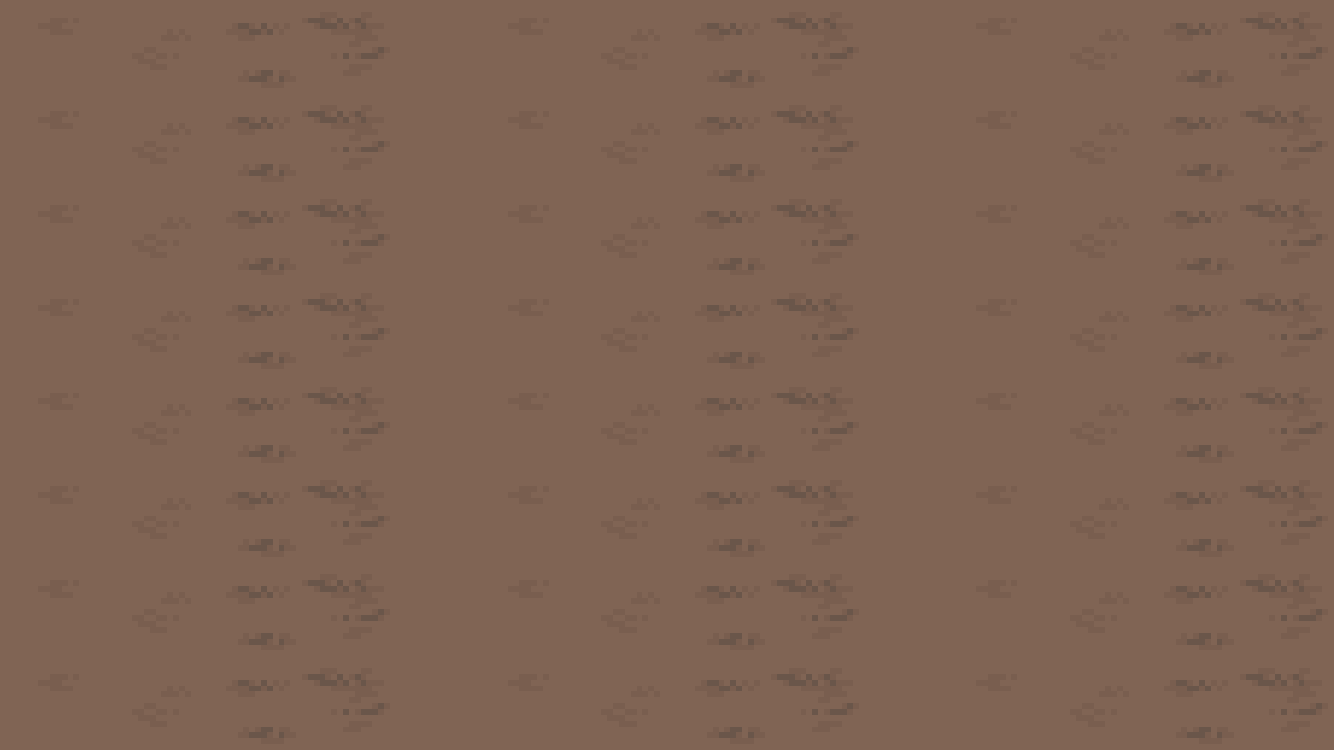
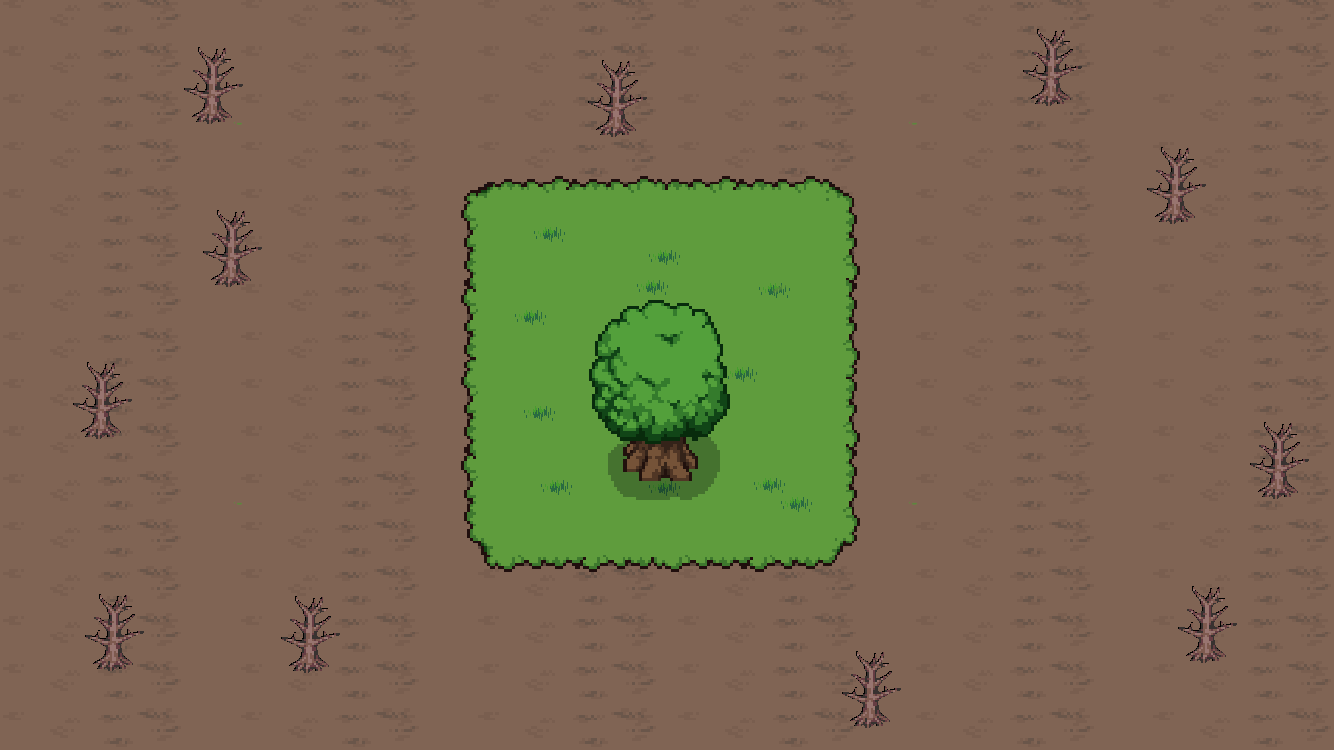
Mana drop done

diff --git a/Forrest Defender/forrest defender.py b/Forrest Defender/forrest defender.py
@@ -22,17 +22,19 @@ dt = clock.tick(60)/1000
 game_state = 1  # 0 = Main_Menu, 1 = Idle_Game, 2 = Shooter
 mana_int = 0
 mana_per_second = 1
-
+alpha = 0
 # Fonts
 
 font = pygame.font.SysFont('Futura', 55)
+font_small = pygame.font.SysFont('Futura', 35)
 
 # Initialise Sprites
 mana_bar = GameObject('Images/Mana.png', (0, 0), (500, 153))
-tree = GameObject('Images/tree.png', (cam_x - 75, cam_y - 100), (150, 200))
-grass = GameObject('Images/grass.png', (cam_x - 200, cam_y - 200), (400, 400))
 dirt = GameObject('Images/dirt.png', (0, 0), (1334, 750))
 menu_panel = GameObject('Images/menu_panel.png', (0, 0), (1334, 750))
+mana_drop_x = 600
+mana_drop_y = 300
+mana_drop = GameObject('Images/manadrop.png', (600, 300), (17, 20))
 
 # Initial Image
 menu_img = pygame.image.load('Images/Menu.png')
@@ -43,19 +45,30 @@ menu = Button(1150, 0, menu_img, menu_p_image, 1)
 # Initialise Text
 mana = font.render(str(mana_int), True, WHITE)
 mana_incr = font.render(str(mana_per_second) + "/s", True, WHITE)
-
-
+mana_incr_drop = font_small.render(str(mana_per_second), True, WHITE)
+mana_incr_drop_rect = pygame.Rect(630,300,100,100)
 # Update Function
 def update():
     global mana_int
     global mana
+    global alpha
+    # Increments Mana
     mana_int += mana_per_second * dt
     mana = font.render(str(int(mana_int)), True, WHITE)
+    # Checks Menu
     if menu.clicked:
         menu.c_img = menu.p_image
     else:
         menu.c_img = menu.d_image
-
+    # Mana Gain sprite
+    mana_drop.rect.y -= 250 * dt
+    mana_drop.image.set_alpha(alpha)
+    alpha += 300 * dt
+    mana_incr_drop_rect.y -= 250 * dt
+    if mana_drop.rect.y < 50:
+        mana_drop.rect.y = 300
+        mana_incr_drop_rect.y = 300
+        alpha = 0
     pygame.display.flip()
 
 
@@ -63,8 +76,8 @@ def update():
 def render():
     if game_state == 1:
         screen.blit(dirt.image, dirt.rect)
-        screen.blit(grass.image, grass.rect)
-        screen.blit(tree.image, tree.rect)
+        screen.blit(mana_drop.image, mana_drop.rect)
+        screen.blit(mana_incr_drop, mana_incr_drop_rect)
         screen.blit(mana_bar.image, mana_bar.rect)
         screen.blit(mana, (30, 25))
         screen.blit(mana_incr, (70, 100))
